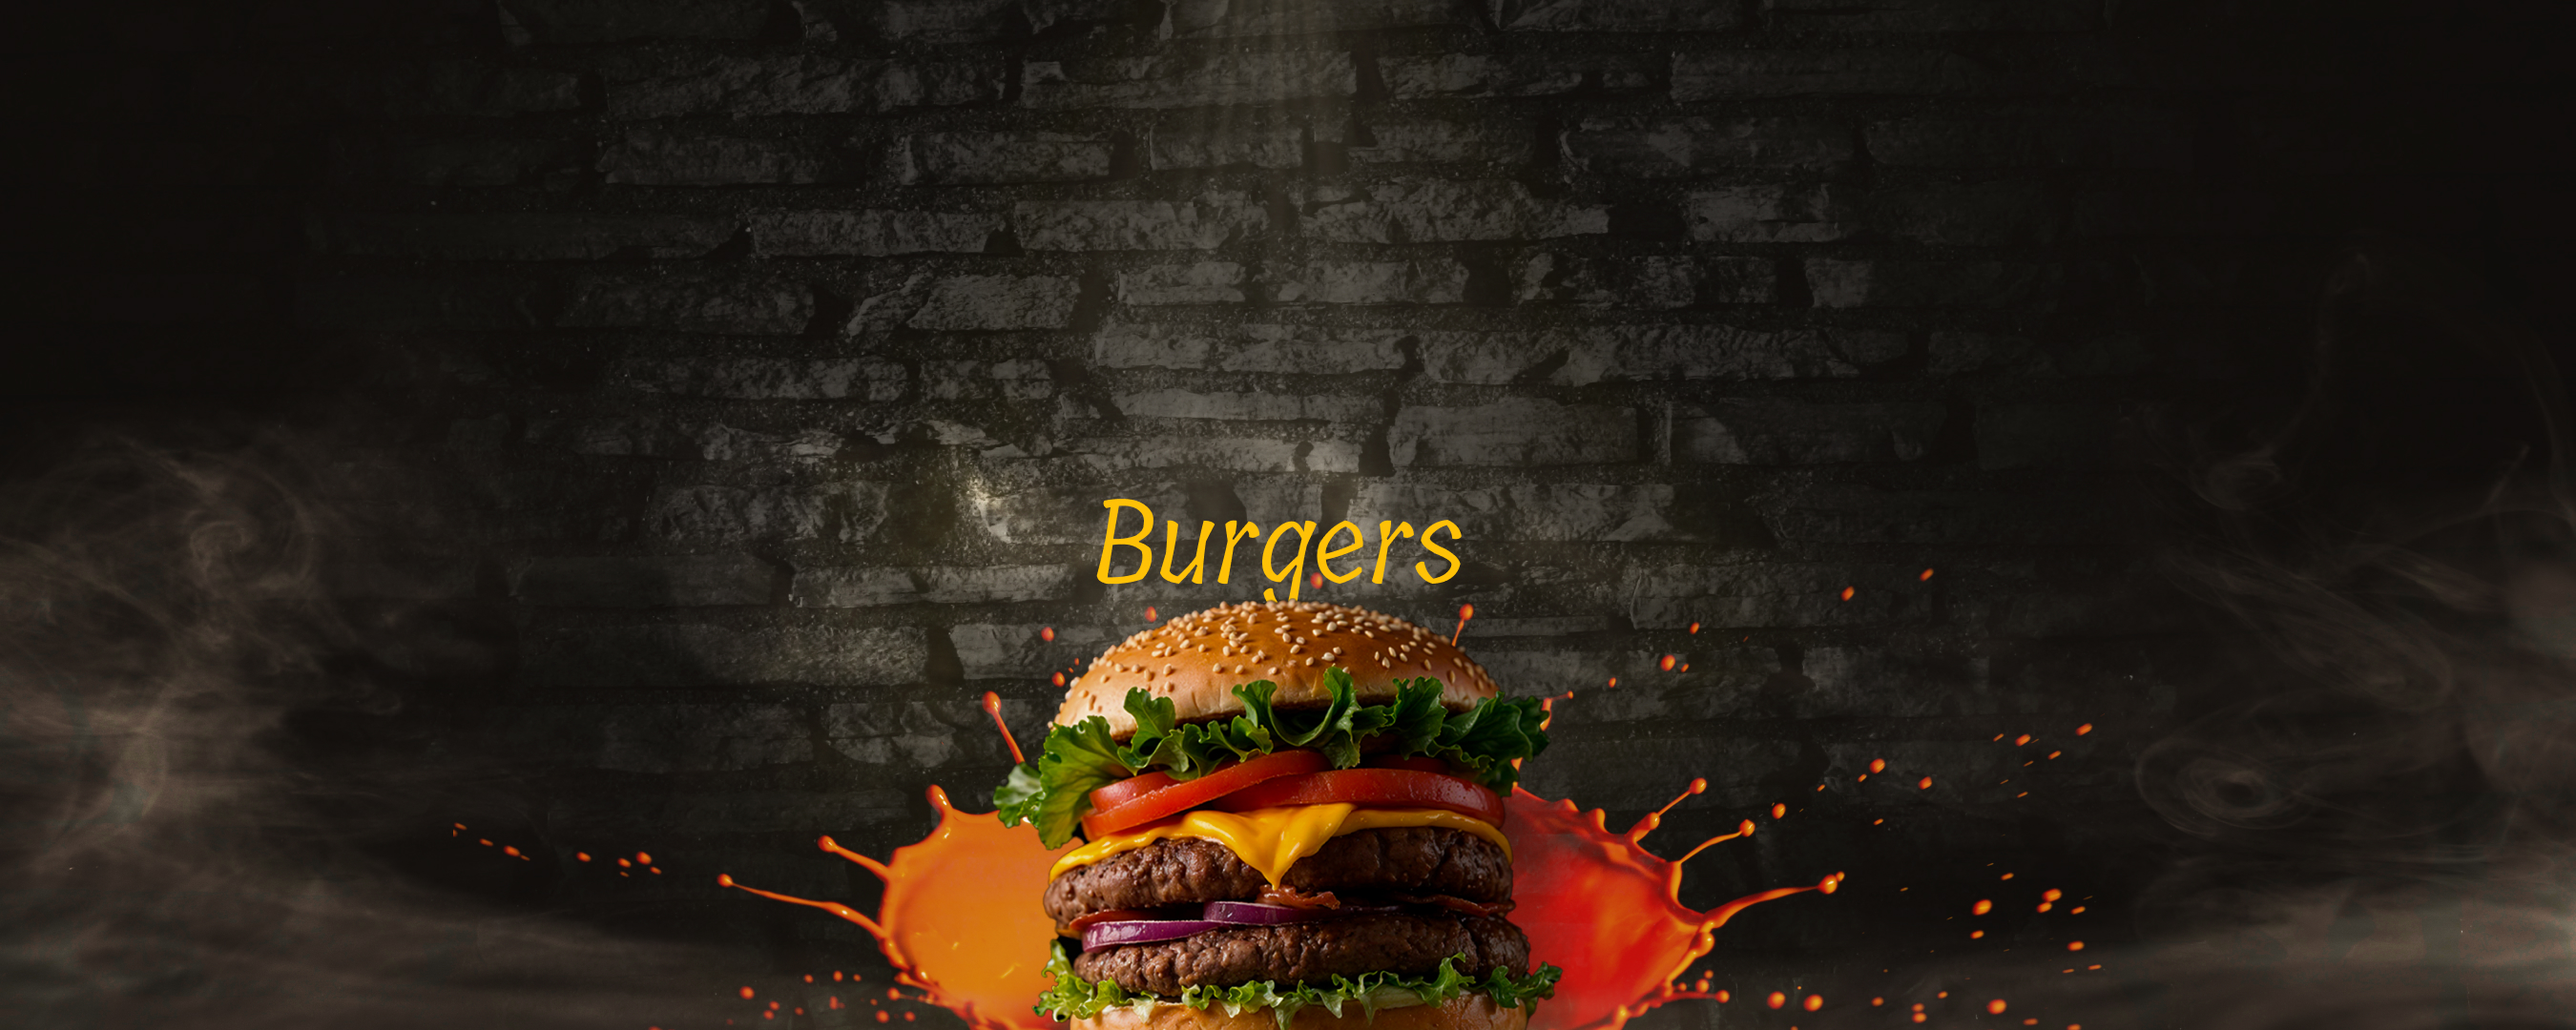
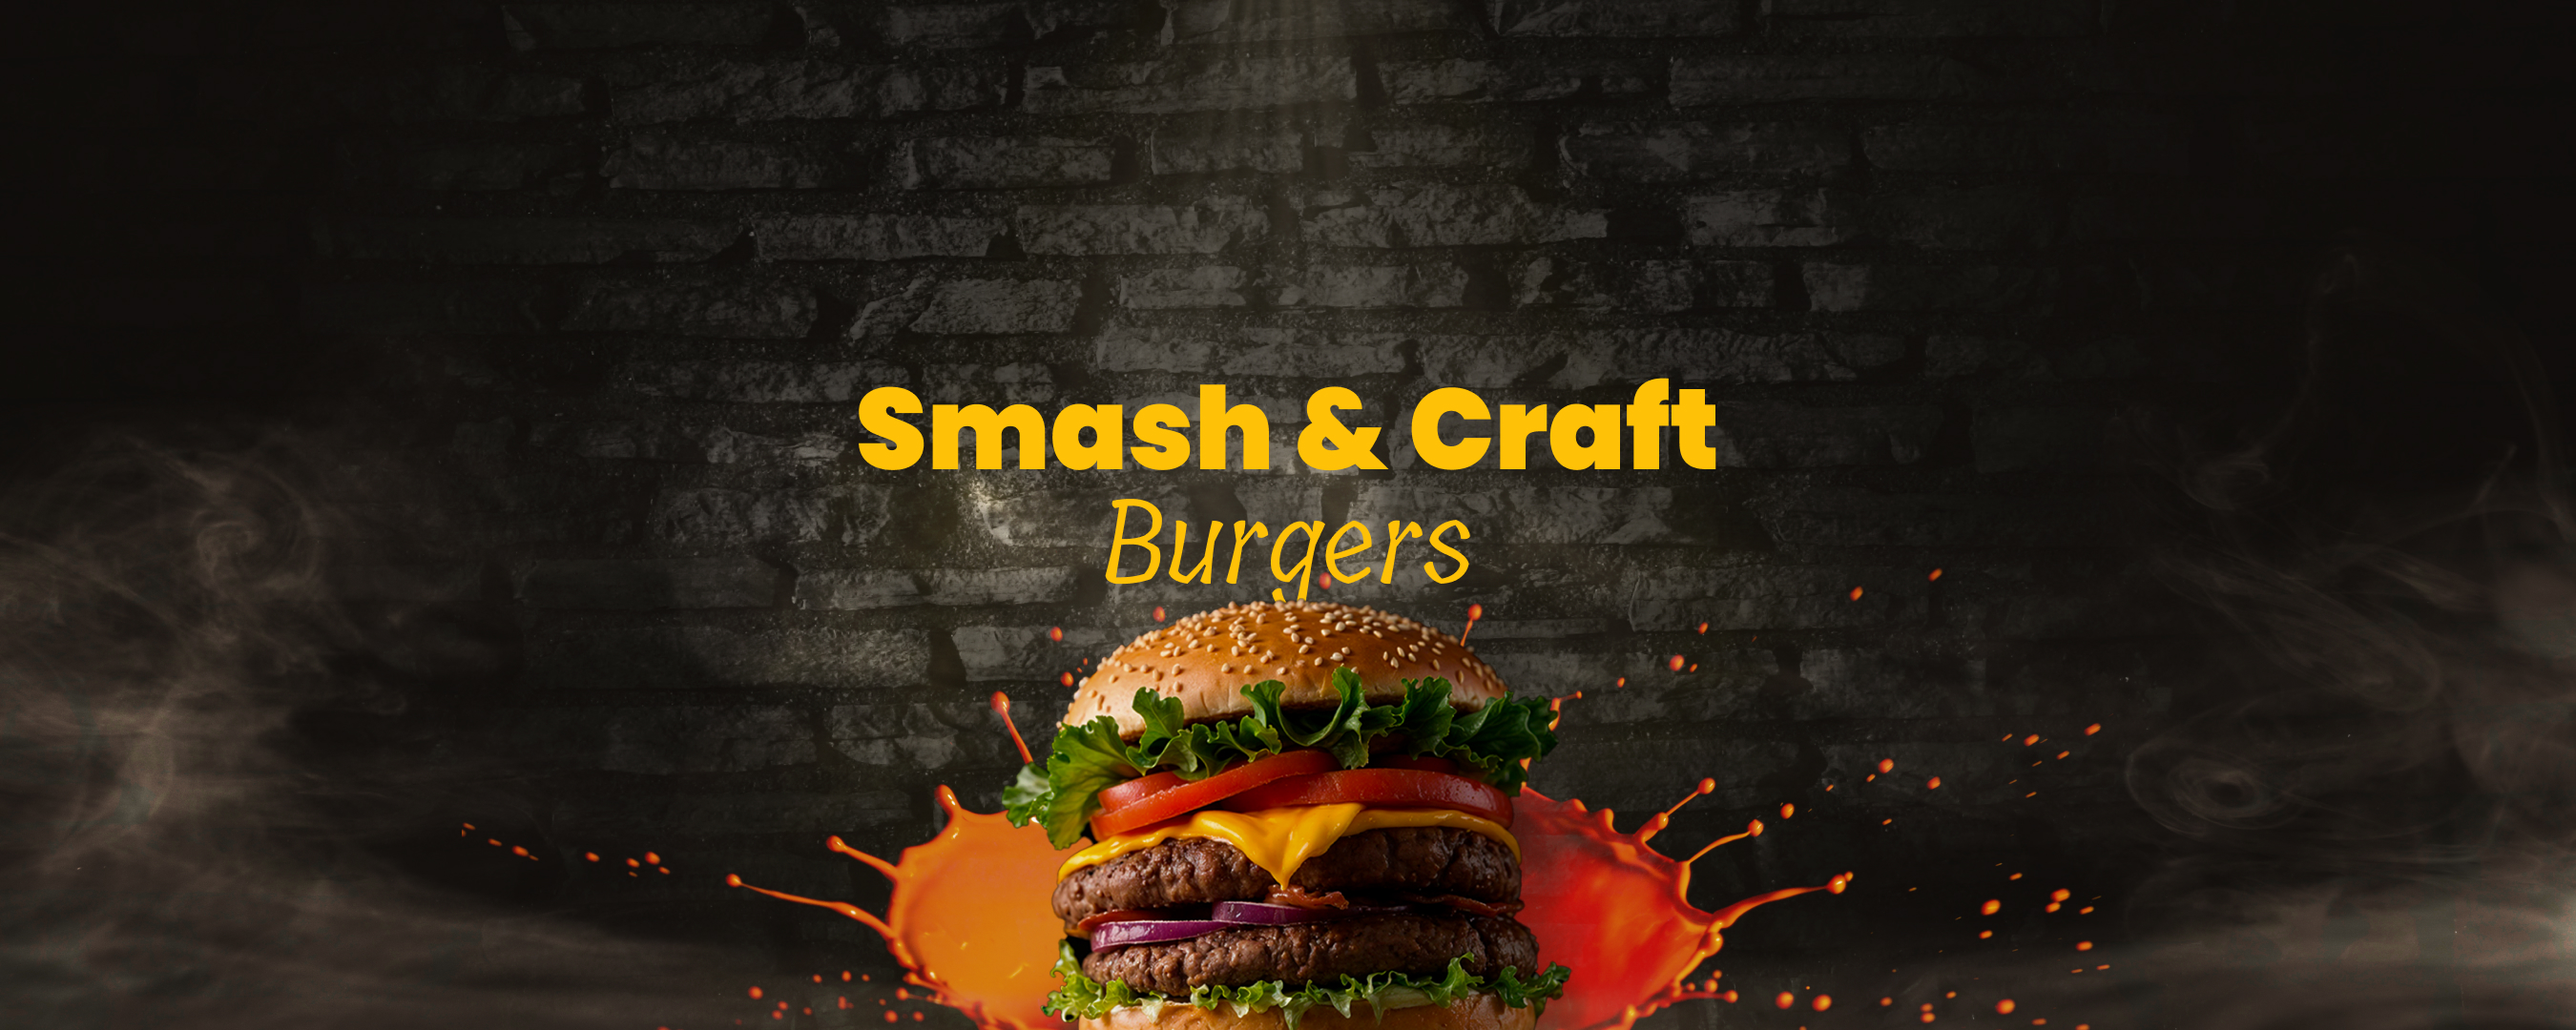
att 22/nov/2024

diff --git a/index.html b/index.html
@@ -8,8 +8,72 @@
     <title>Smash & Craft Burgers</title>
 </head>
 <body>
-    <div class="background-principal">
+    <section class="section-principal">
+        <div class="background-principal">
+            <div class="nav-bar">
+                <div class="link-reserve"><a href="#" id="link-reserve">Reserve agora!</a></div>
         
-    </div>
+                <div class="nav">
+                    <nav>
+                        <ul>
+                            <li><a href="#">Home</a></li>
+                            <li><a href="#">Destaques</a></li>
+                            <li><a href="#">Combos</a></li>
+                            <li><a href="#">Sobre</a></li>
+                            <li><a href="#">Localização</a></li>
+                        </ul>
+                    </nav>
+                </div>
+            </div>
+        </div>
+    </section>
+
+    <main>
+        <section class="section-cta">
+            <div class="cta">
+                <div class="img-cta"></div>
+        
+                <div class="texto-cta">
+                    <h1>Não Perca a Chance de Provar os Melhores Burgers Artesanais da Cidade!</h1>
+                    <p>Somos uma hamburgueria artesanal que combina o melhor do estilo smash burger com ingredientes frescos e cervejas artesanais exclusivas. No Smash & Craft, cada mordida é uma explosão de sabor, feita para quem valoriza qualidade e inovação.</p>
+
+                    <div class="chamada-cta">
+                        <img src="imagens/logo-cta.png" alt="">
+                    
+                        <div class="botao-cta">
+                            <a href="#"><div class="fundo-botaocta">Reserve sua mesa</div></a>
+                        </div>
+                    </div>
+                </div>
+            </div>
+        </section>
+
+        <section class="section-destaques">
+            <div class="destaques">
+                <h1 id="titulo-destaques">Destaques</h1>
+
+                <div class="destaques-geral">
+                    <div class="burger1">
+                        <div class="descricao">
+                            <h1 id="nome">Smash Supreme</h1>
+                            <p id="descricao">Carne smash 100% angus, queijo cheddar duplo, cebola caramelizada, bacon crocante e molho especial da casa no pão brioche levemente tostado.</p>
+                            <p id="diferencial">Combinação clássica com um toque especial do molho Smash.</p>
+
+                            <div class="preco">
+                                <h2>R$ 34,90</h2>
+                                <h1>R$ 29,90</h1>
+                            </div>
+                        </div>
+
+                        <div class="img-burger1">
+                            <img src="" alt="">
+                        </div>
+
+                        
+                    </div>
+                </div>
+            </div>
+        </section>
+    </main>
 </body>
 </html>

diff --git a/css/style.css b/css/style.css
@@ -1,6 +1,133 @@
+/* SECTION PRINCIPAL*/
+
+.nav-bar {
+    display: flex;
+    padding: 4em 10em;
+}
+
+#link-reserve {
+    font: 1.81em Tillana-ExtraBold, sans-serif;
+    color: var(--amarelo);
+    text-decoration: none;
+}
+
+.nav {
+    margin-left: auto;
+}
+
+nav ul {
+    font: 1.68em Tillana-Medium, sans-serif;
+    color: var(--amarelo);
+    list-style: none;
+    display: flex;
+    gap: 1.1em;
+}
+
+li a {
+    text-decoration: none;
+    color: var(--amarelo);
+}
+
+li a:hover {
+    text-decoration: underline 3px;
+}
+
 .background-principal {
     background: var(--preto) url("/imagens/background.jpg") no-repeat bottom center;
     background-size: cover;
     width: 100vw;
     height: 100vh;
+    color: var(--amarelo);
+}
+
+
+/* SECTION CTA*/
+
+.cta {
+    background-color: var(--preto);
+    height: 100vh;
+    width: 100%;
+    position: relative;
+    overflow: hidden;
+    z-index: 1;
+}
+
+.img-cta {
+    height: 60em;
+    width: 60em;
+    border-radius: 50%;
+    background: var(--preto) url("/imagens/cta.jpg") no-repeat center center;
+    background-size: cover;
+    position: absolute;
+    bottom: -10.7em;
+    right: -7em;
+    z-index: -10;
+}
+
+.texto-cta {
+    width: 51%;
+    padding: 5em 0 0 10em;
+}
+
+.texto-cta h1 {
+    font: 3.75em Poppins-LightItalic, sans-serif;
+    color: var(--branco);
+    line-height: 1.7em;
+    padding-bottom: 0.7em;
+}
+
+.texto-cta p {
+    font: 1.56em Poppins-Light, sans-serif;
+    color: var(--branco);
+}
+
+.chamada-cta {
+    display: flex;
+    flex-direction: column;
+}
+
+.texto-cta img {
+    padding-top: 3em;
+}
+
+.botao-cta {
+    display: flex;
+    justify-content: center;
+    padding: 3em 0;
+}
+
+.botao-cta a {
+    text-decoration: none;
+    color: var(--branco);
+    display: flex;
+}
+
+.fundo-botaocta {
+    border-radius: 60px;
+    background-color: var(--vermelho);
+    color: var(--branco);
+    font: 3em Poppins-SemiBold, sans-serif;
+    display: flex;
+    justify-content: center;
+    align-items: center;
+    padding: 0.5em 1.3em;
+}
+
+
+/* SECTION DESTAQUES*/
+
+.destaques {
+    width: 100%;
+    background-color: var(--amarelo);
+}
+
+#titulo-destaques {
+    color: var(--cinza);
+    font: 4em Poppins-Bold, sans-serif;
+    text-decoration: underline;
+    text-align: center;
+}
+
+.destaques-geral {
+    padding: 4em 0;
 }

diff --git a/css/global.css b/css/global.css
@@ -10,22 +10,6 @@
     --bege: #F5E9DA;
     --amarelo: #FFC107;
     --vermelho: #E53935;
-
-    --fonte-nav: font-family: Tillana-Medium, sans-serif;
-    --fonte-reserveagora: font-family: Tillana-ExtraBold, sans-serif;
-    --fonte-banner: font-family: Poppins-Black, sans-serif;
-
-    --fonte-ctaprincipal: font-family: Poppins-LightItalic, sans-serif;
-    --fonte-ctasobre: font-family: Poppins-Light, sans-serif;
-    --fonte-logo1: font-family: Poppins-Black, sans-serif;
-    --fonte-logo2: font-family: Poppins-Regular, sans-serif;
-    --fonte-botaocta: font-family: Poppins-SemiBold, sans-serif;
-
-    --fonte-titulos-sections-lanches-combos: font-family: Poppins-Bold, sans-serif;; 
-    --fonte-descricao-lanches-combos-sobrenos-infos: font-family: Poppins-ExtraLight, sans-serif;;
-    --fonte-destaquelanches: font-family: Poppins-Regular, sans-serif;;
-    --fonte-preçoslanchesecombos: font-family: Poppins-ExtraBold, sans-serif;;
-
 }
 
 @font-face {
@@ -86,4 +70,8 @@
 @font-face {
     font-family: Tillana-Regular;
     src: url("../fontes/Tillana-Regular.ttf") format("truetype");
+}
+
+body {
+    overflow-x: hidden;
 }
